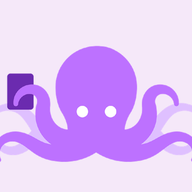
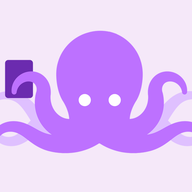
관리자: 홈 화면 아이콘을 연보라 배경 문어 원본으로 교체 (#28)
Claude-Session: https://claude.ai/code/session_01CejgdBzx7YLSESbcA5usyV

Changed region(s): [[0.0, 0.1562, 1.0, 0.8438], [0.5312, 0.4688, 0.6562, 0.625]]

diff --git a/admin/index.html b/admin/index.html
@@ -5,10 +5,10 @@
 <meta name="viewport" content="width=device-width, initial-scale=1">
 <meta name="robots" content="noindex, nofollow">
 <title>릴멜 관리자</title>
-<!-- 홈 화면에 추가할 때 쓰는 아이콘과 이름 (안드로이드 앱 아이콘과 같은 연보라 배경 문어) -->
-<link rel="icon" type="image/png" sizes="192x192" href="/images/admin-icon-192.png?v=2">
-<link rel="apple-touch-icon" href="/images/admin-icon-192.png?v=2">
-<link rel="manifest" href="./manifest.webmanifest?v=3">
+<!-- 홈 화면에 추가할 때 쓰는 아이콘과 이름 (연보라 배경 문어 아이콘 원본) -->
+<link rel="icon" type="image/png" sizes="192x192" href="/images/admin-icon-192.png?v=3">
+<link rel="apple-touch-icon" href="/images/admin-icon-192.png?v=3">
+<link rel="manifest" href="./manifest.webmanifest?v=4">
 <meta name="apple-mobile-web-app-title" content="릴멜 관리자">
 <meta name="theme-color" content="#D6E1FF">
 <style>
